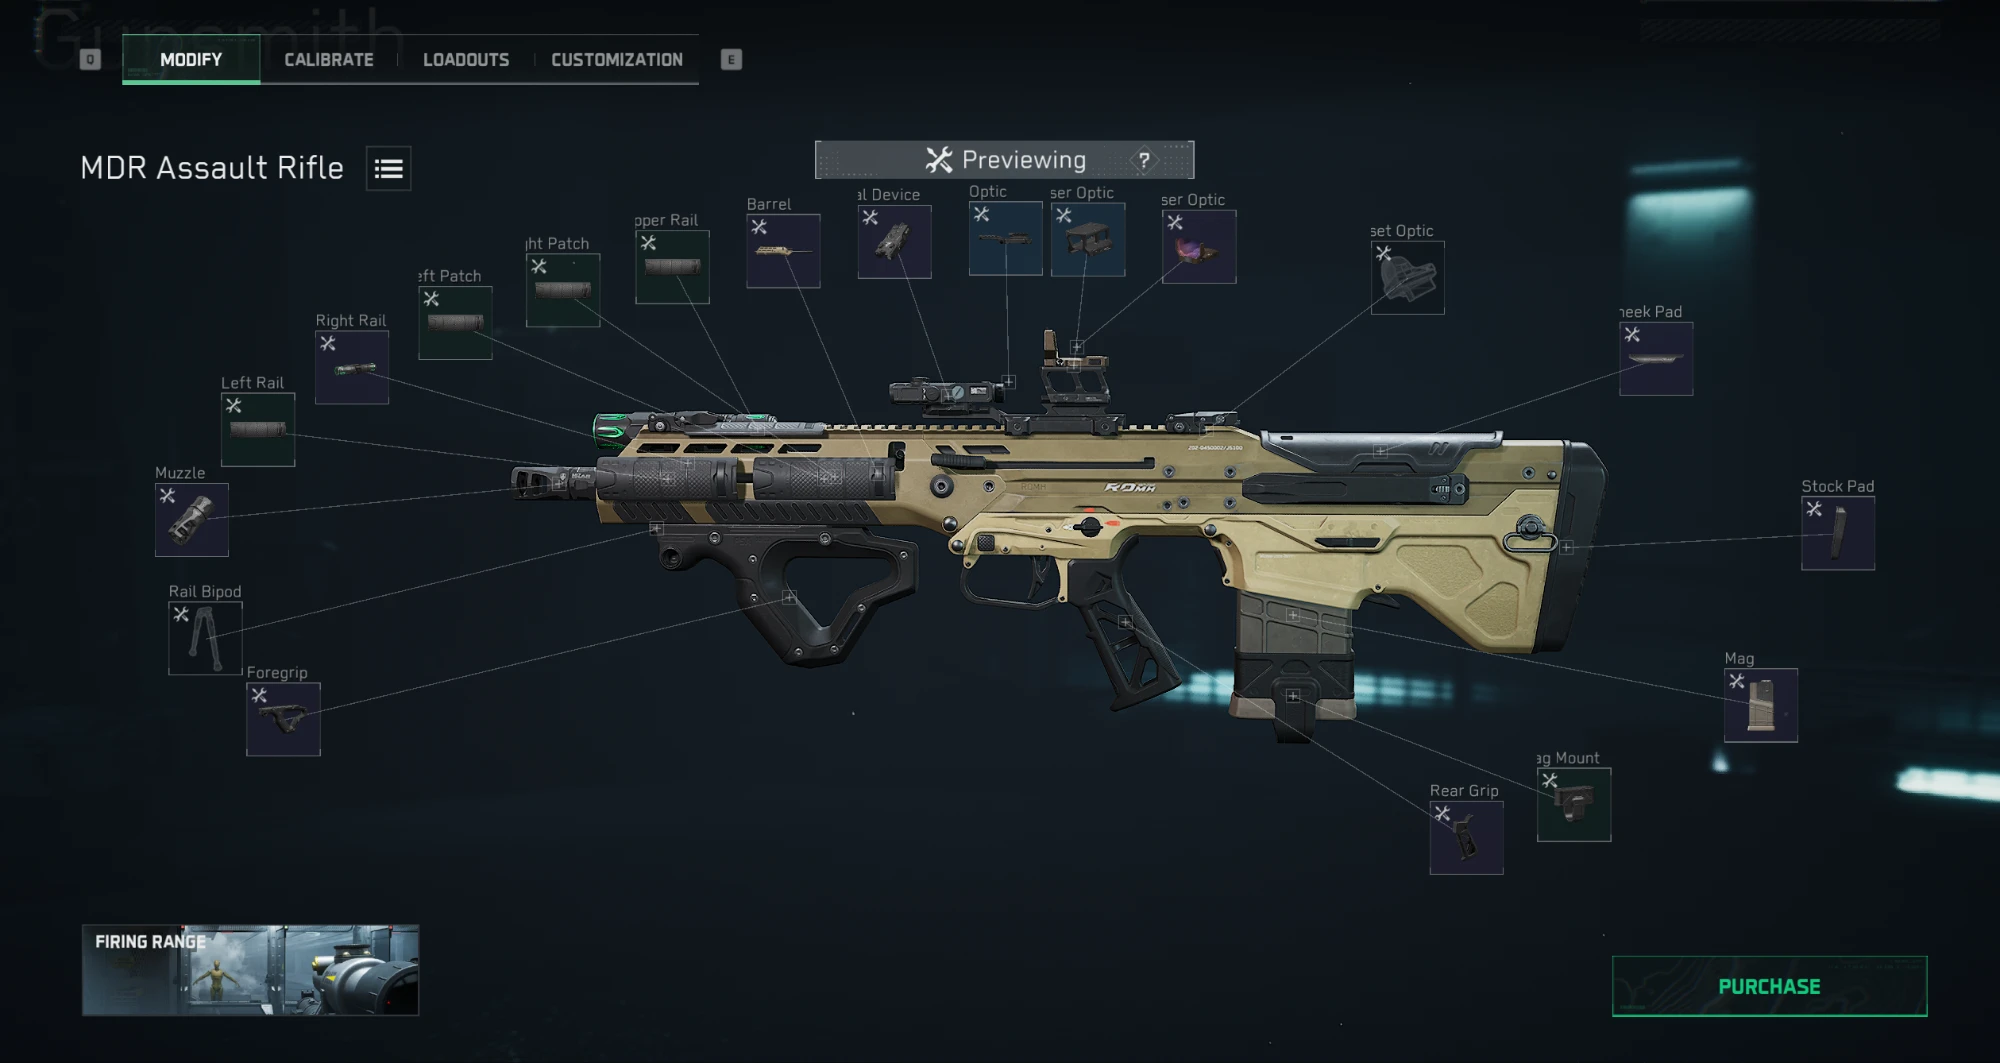
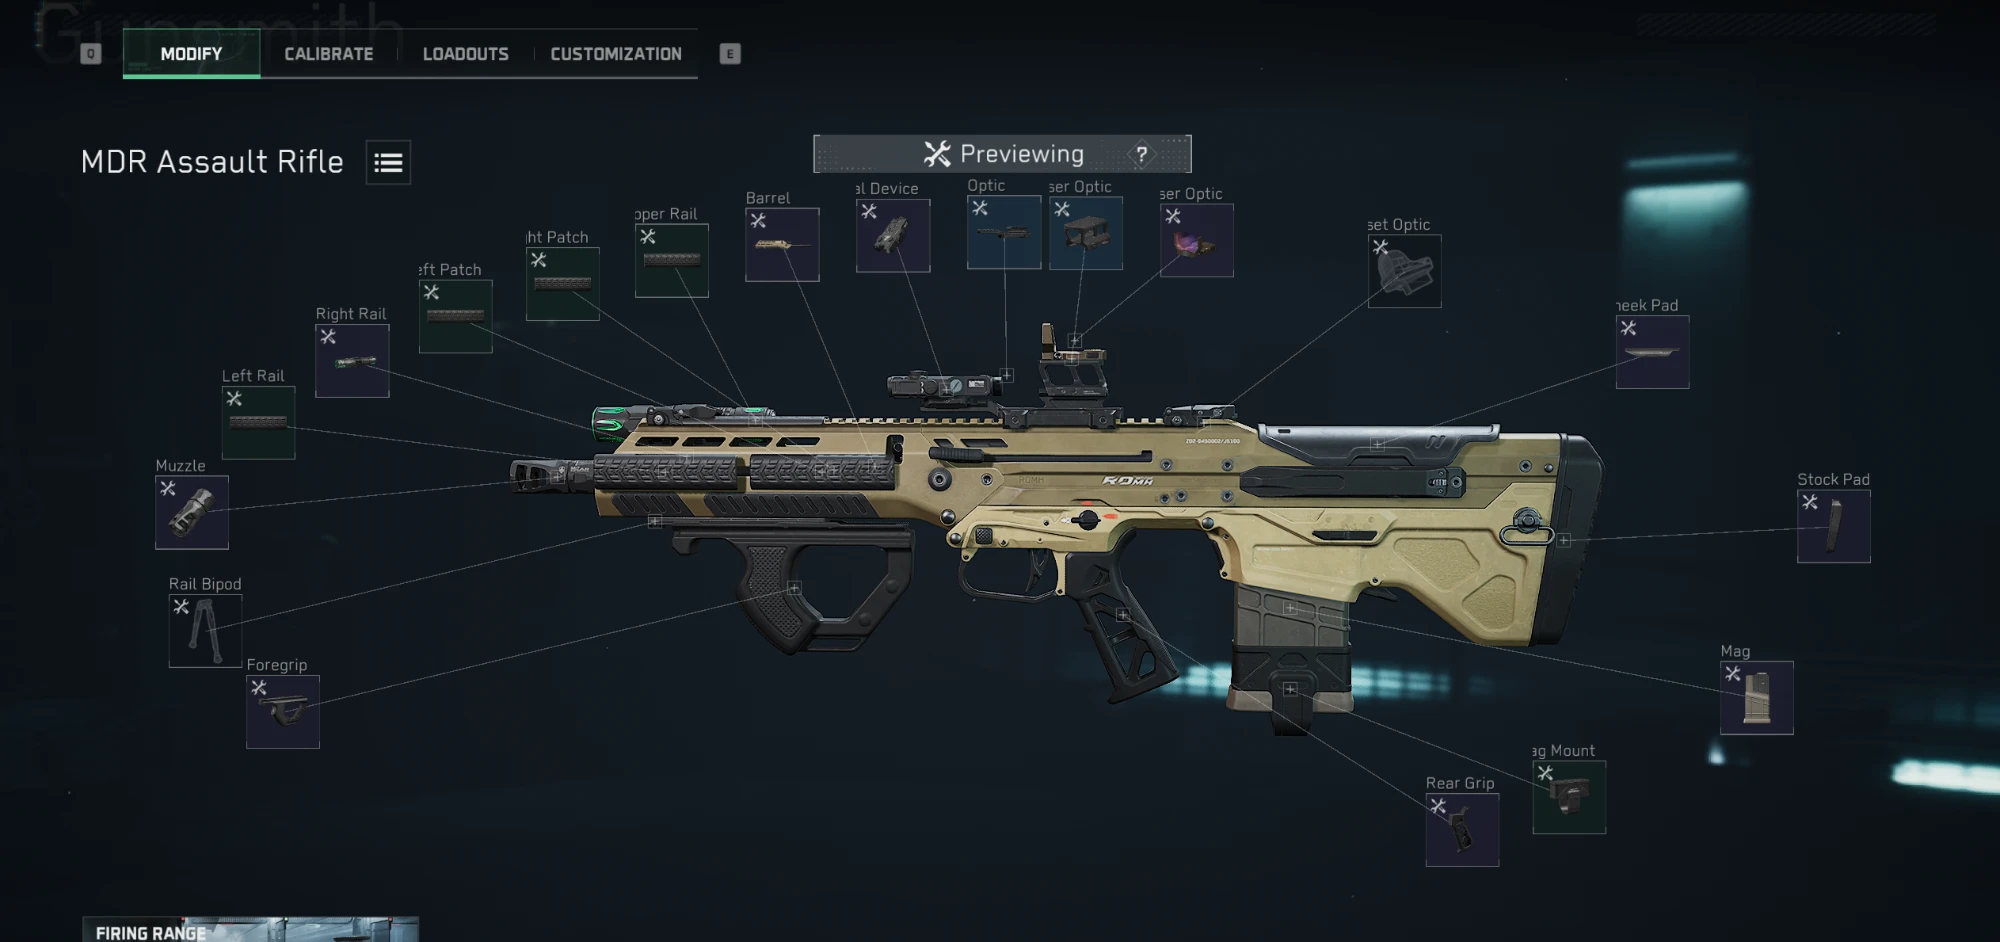
Update MDR build code and screenshots
Claude-Session: https://claude.ai/code/session_01MEwK1GBeKu5nA7oofRz3c1

diff --git a/js/builds.js b/js/builds.js
@@ -65,7 +65,7 @@ window.GUN_BUILDS = {
       code: "K437 Assault Rifle-Operations (Extraction Mode)-6LH29G00F1274DR0HHHLC" },
     { id: "mdr", weapon: "MDR", category: "Assault Rifle", image: "images/guns/mdr.webp",
       calibration: "images/guns/mdr-calibration.webp",
-      code: "MDR Assault Rifle-Operations (Extraction Mode)-6LEFLPK0F1274DR0HHHLC" },
+      code: "MDR Assault Rifle-Operations (Extraction Mode)-6LAGELG014H9D6PDMV79E" },
     { id: "mk4", weapon: "MK4", category: "SMG", image: "images/guns/mk4.webp",
       calibration: "images/guns/mk4-calibration.webp",
       code: "MK4 Submachine Gun-Operations (Extraction Mode)-6LP2NCO014H9D6PDMV79E" }
